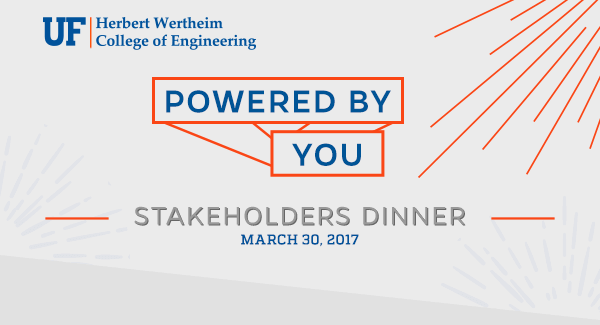
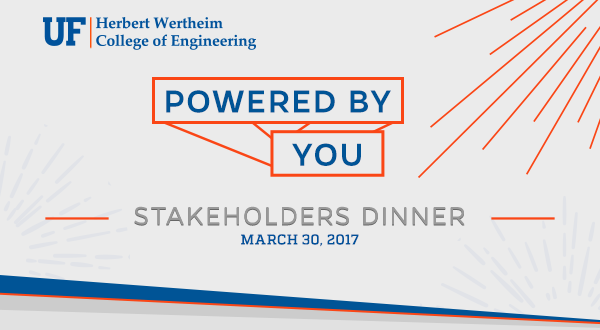
add blue/gray stripe to bottom of header image

diff --git a/stakeholders2017/stakeholders-invite.html b/stakeholders2017/stakeholders-invite.html
@@ -216,7 +216,7 @@
 					</tr>
 					<tr>
 						<td class="img" bgcolor="#ebebeb">
-							<a href="https://www.eng.ufl.edu/about/transformation/" title="Powered by You: Herbert Wertheim College of Engineering 2017 Stakeholders Dinner" target="_blank"><img src="https://www.eng.ufl.edu/eblasts/stakeholders2017/images/stakeholders-invite-header.png" align="left" alt="Powered by You: Herbert Wertheim College of Engineering 2017 Stakeholders Dinner" width="600" height="325" border="0" class="header-image" /></a>
+							<a href="https://www.eng.ufl.edu/about/transformation/" title="Powered by You: Herbert Wertheim College of Engineering 2017 Stakeholders Dinner" target="_blank"><img src="https://www.eng.ufl.edu/eblasts/stakeholders2017/images/stakeholders-invite-header.png" align="left" alt="Powered by You: Herbert Wertheim College of Engineering 2017 Stakeholders Dinner" width="600" height="330" border="0" class="header-image" /></a>
 						</td>
 					</tr>
 					<tr>
